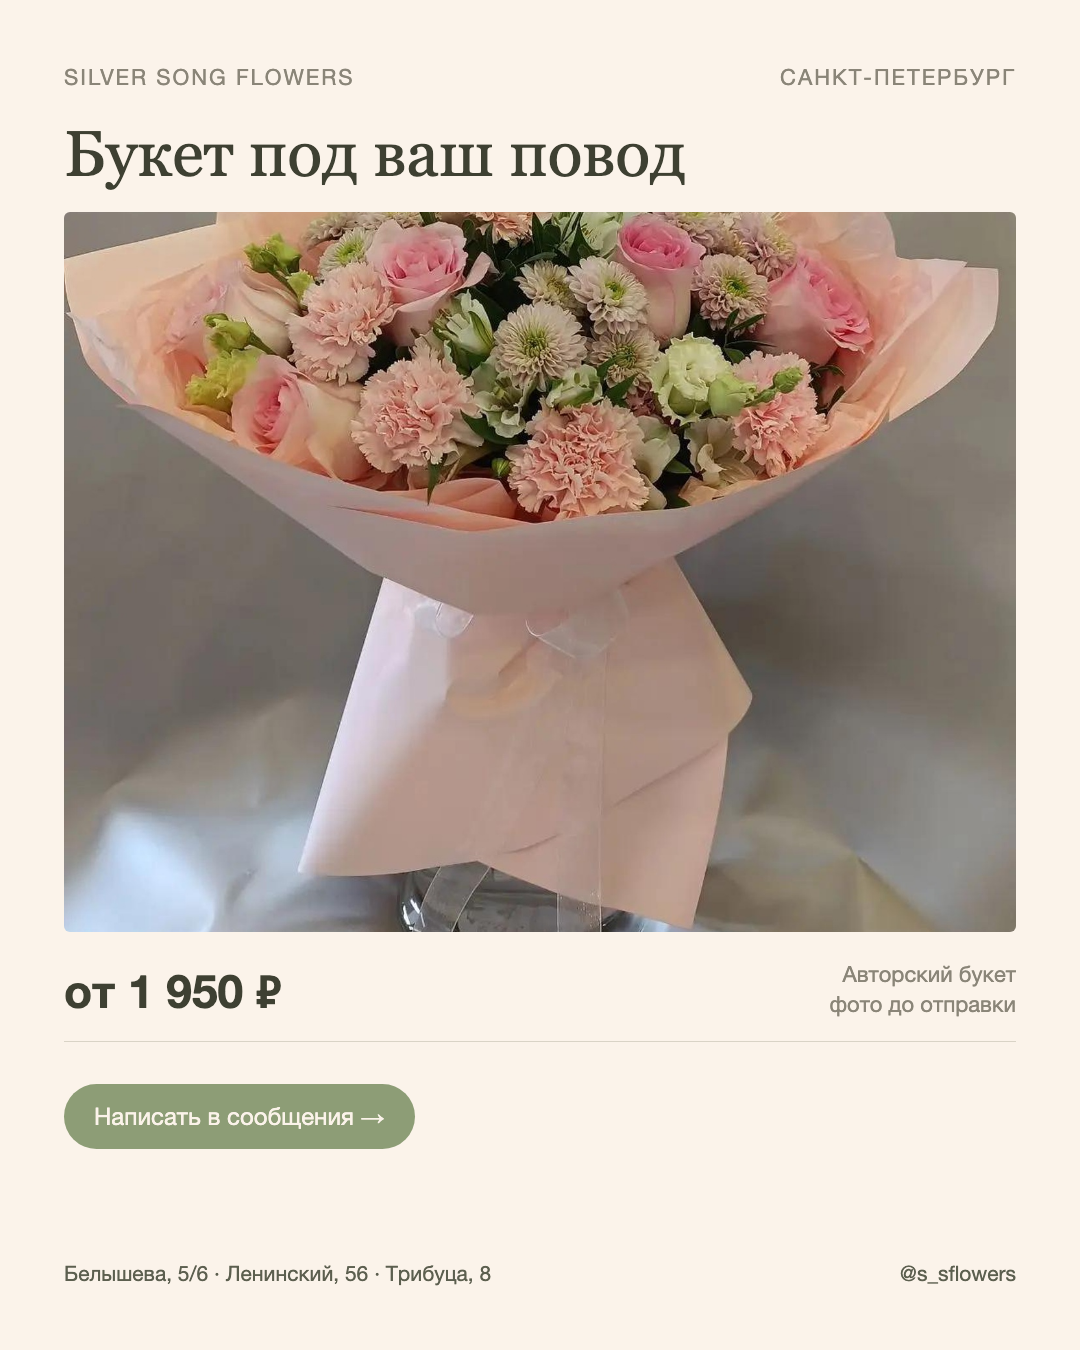
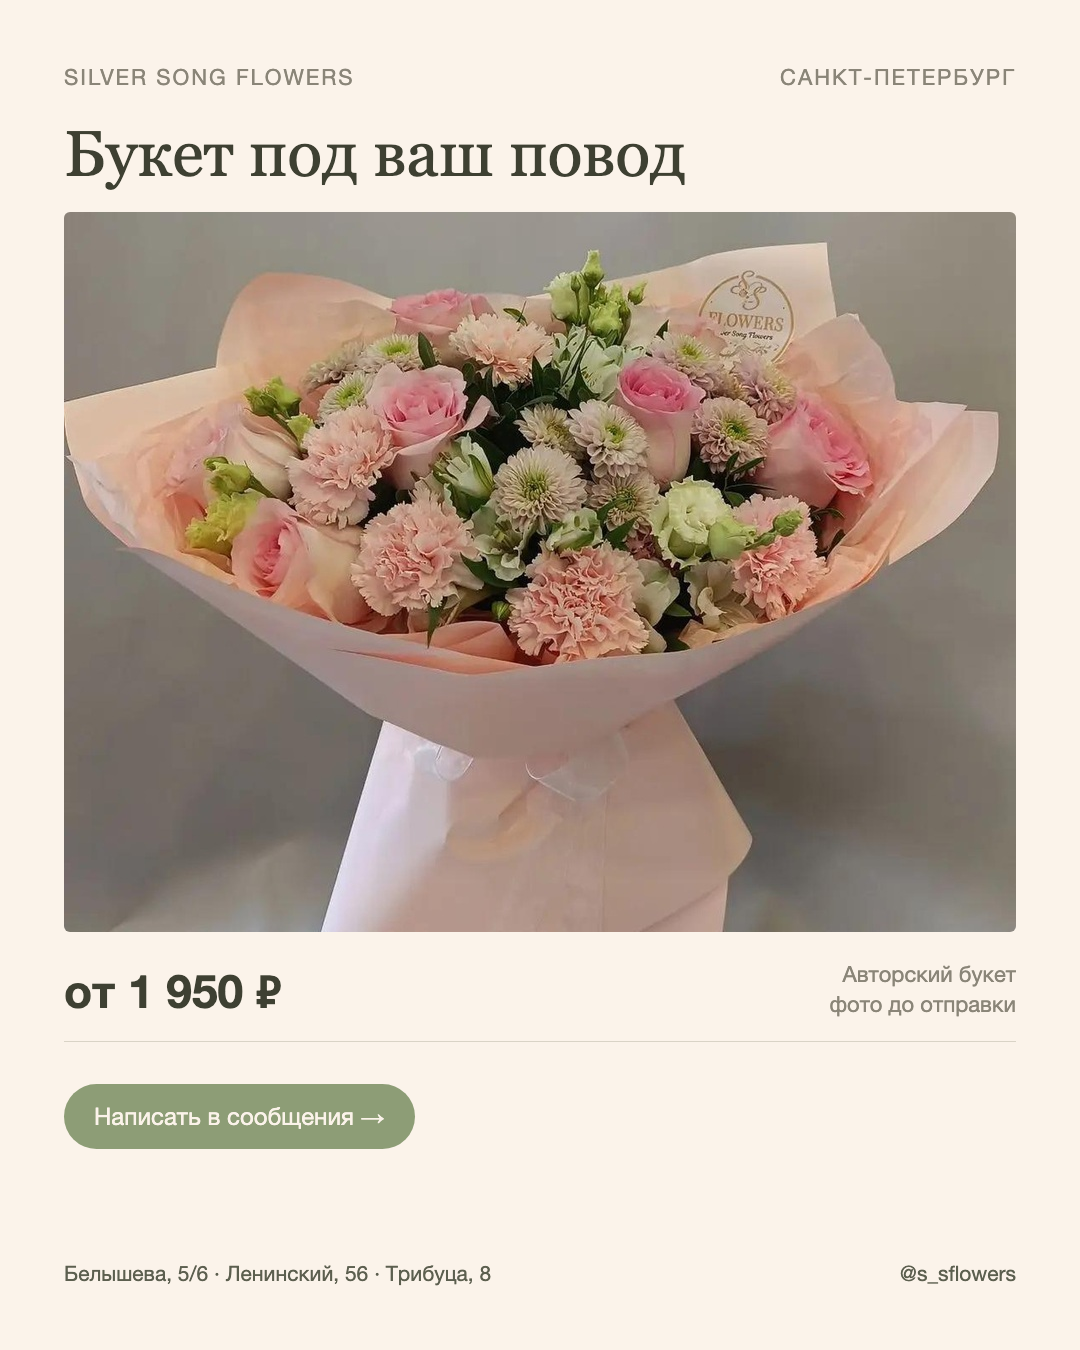
Пост 4:5: букет целиком в кадре

diff --git a/agent-marketolog/templates/vizual/post-4x5.html b/agent-marketolog/templates/vizual/post-4x5.html
@@ -17,7 +17,7 @@ h1{font-size:64px;line-height:1.08;font-weight:500;margin:28px 0 24px}
 <div class="pad">
   <div class="top"><span>Silver Song Flowers</span><span>Санкт-Петербург</span></div>
   <h1 class="serif">Букет под ваш повод</h1>
-  <img class="photo" src="../../results/avito-foto-v2/01.jpg">
+  <img class="photo" src="../../results/vizual-foto-post.jpg">
   <div class="row">
     <div class="price">от 1 950 ₽</div>
     <div class="note">Авторский букет<br>фото до отправки</div>
